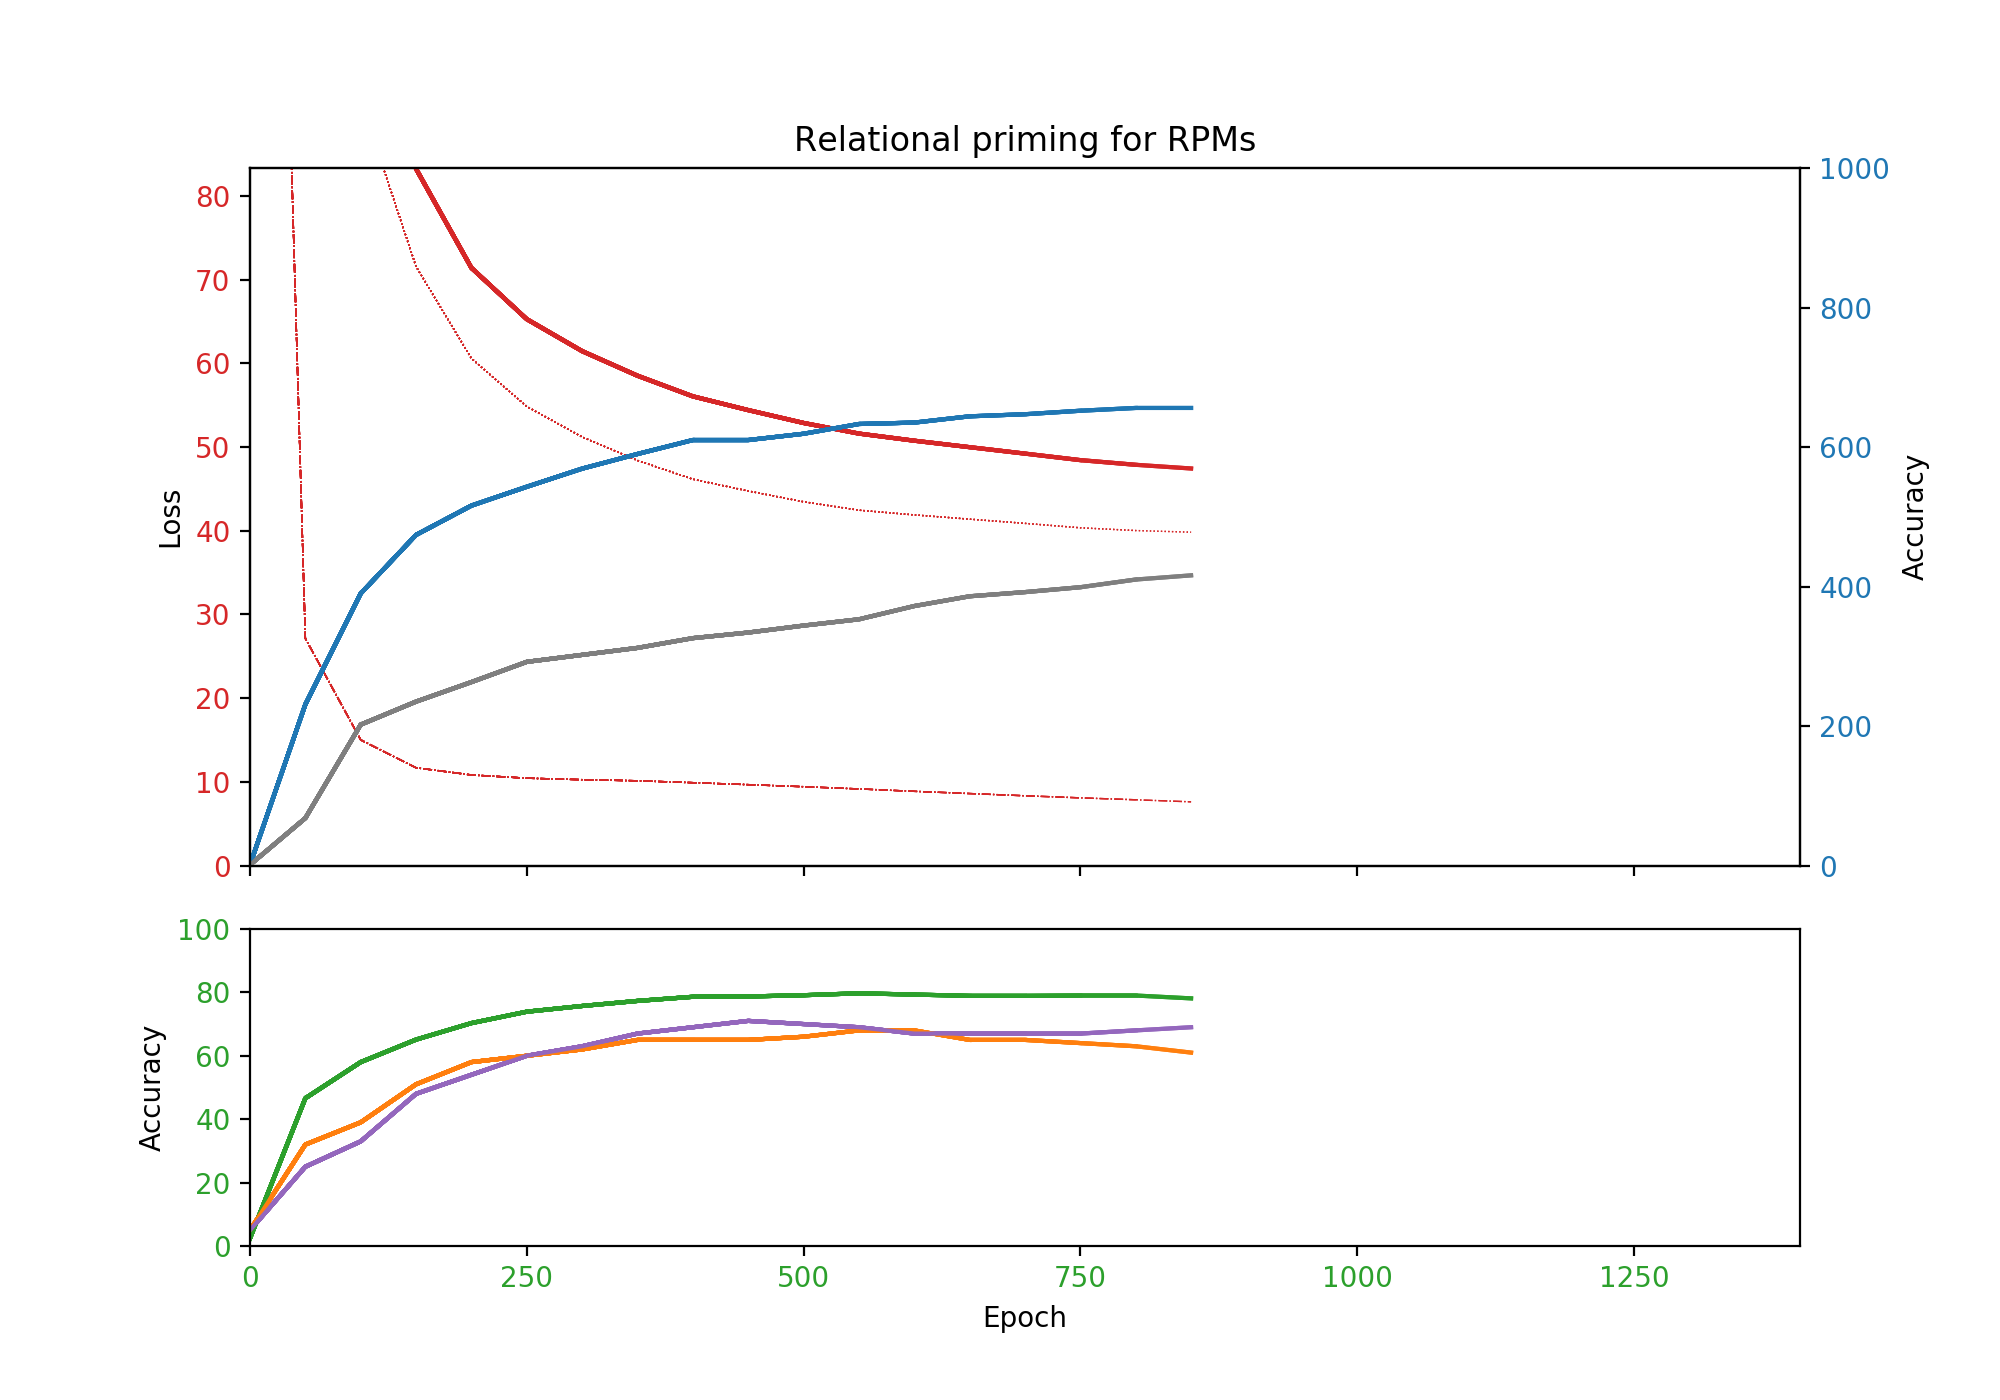
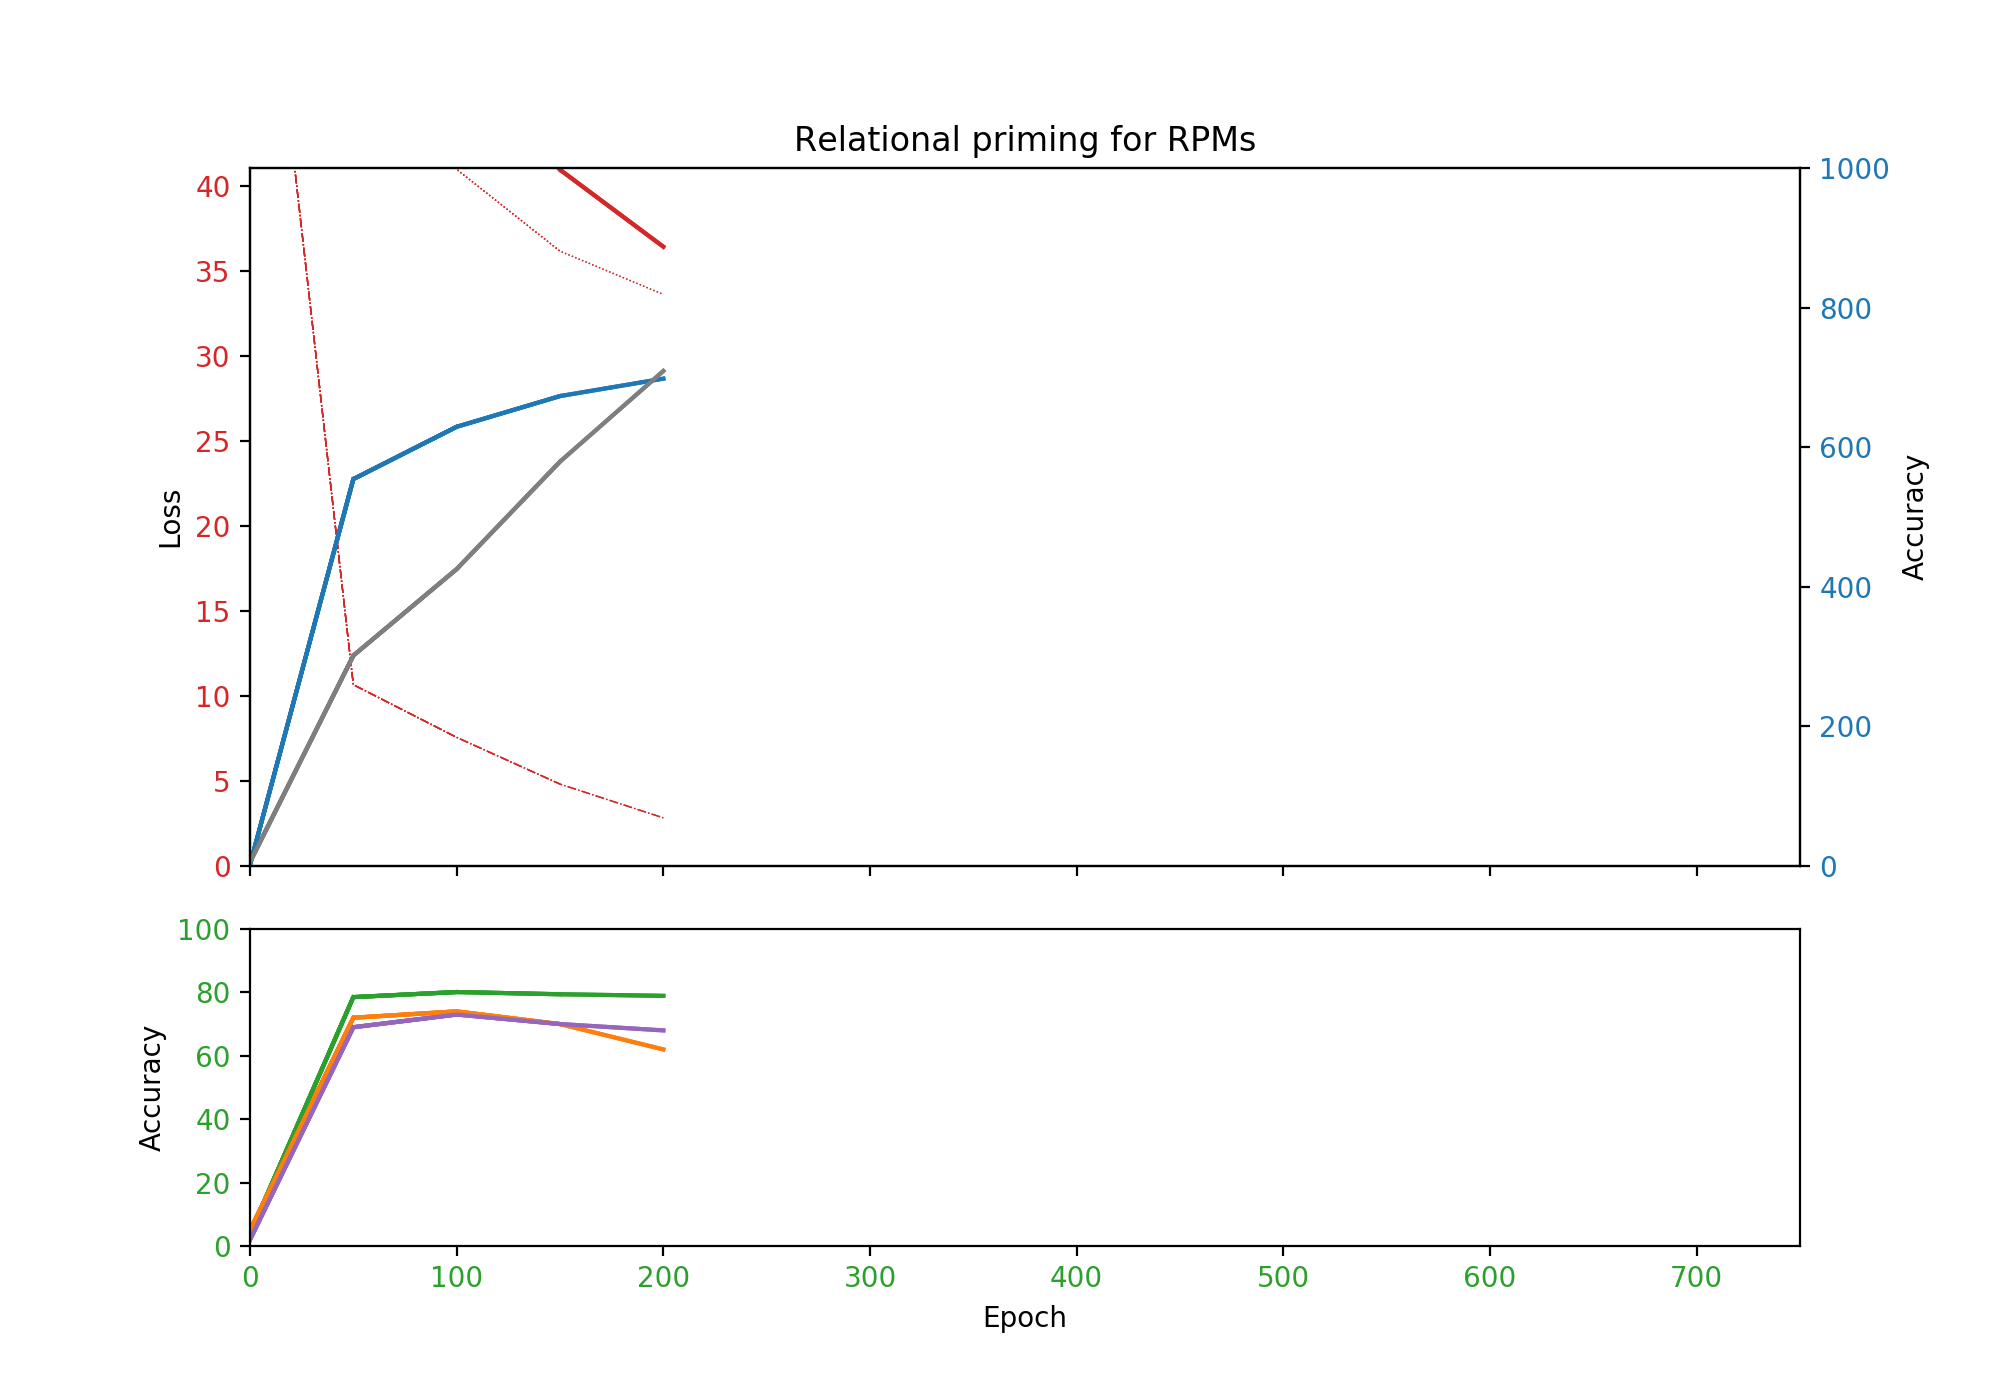
Very (too) fast learning with fully connected. Tails off after here.

diff --git a/RPM.py b/RPM.py
@@ -507,7 +507,7 @@ candidates = [item[1] for item in tuples]
 patterns_array = np.asarray(patterns)
 analogies_array = np.asarray(analogies)
 
-network = Network(n_inputs=11, n_transformation=4, n_hidden=13, n_outputs=11, training_data=patterns_array, test_data=analogies_array, candidates=candidates, desired_response_function=target, collect_statistics_function=collect_statistics)
+network = Network(n_inputs=11, n_transformation=4, n_hidden=20, n_outputs=11, training_data=patterns_array, test_data=analogies_array, candidates=candidates, desired_response_function=target, collect_statistics_function=collect_statistics)
 
 #%%
 # Plot the Error by epoch

diff --git a/network2.py b/network2.py
@@ -34,7 +34,7 @@ import np_clip_fix
 @njit
 def sigmoid(x):
     """Sigmoid logistic function"""
-    k = 1 # smoothing parameter
+    k = 0.1 # smoothing parameter
     return 1 / (1 + np.exp(-x * k))
 
 @njit
@@ -90,7 +90,7 @@ class Config:
     max_epochs: int = 40000
     max_activation_cycles: int = 100 # The maximum number of times the activation is propagated. 
     max_activation_cycles_fully_unclamped = 0
-    eta: float = 0.001
+    eta: float = 0.05
     noise: float = 0.
     adaptive_bias: bool = True
     strict_leech: bool = True
